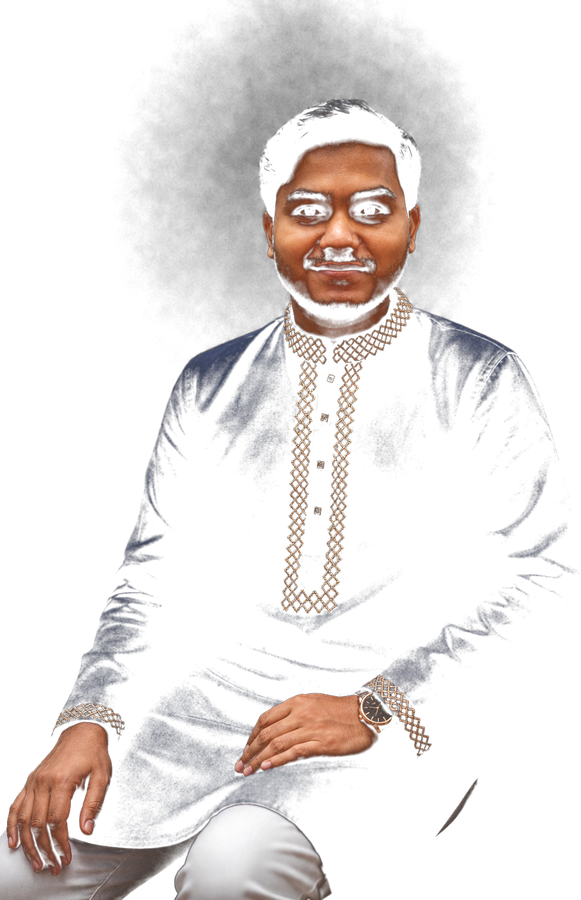
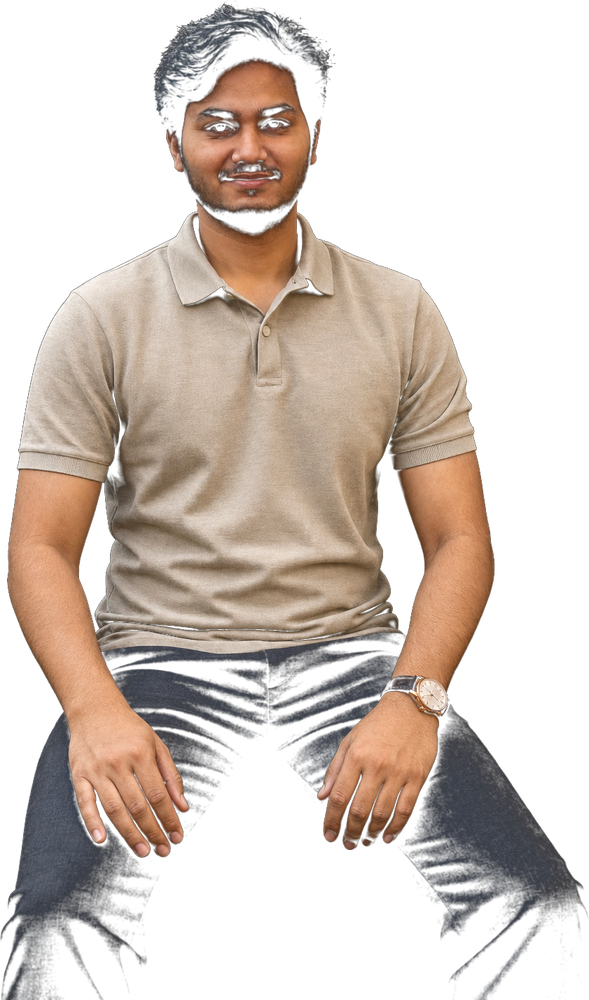
Expand AI portrait set and keep unused shots off GitHub.
Replace the weak about portrait with a seated polo regen from a non-panjabi reference, archive six alternate aspects under a gitignored private folder, and document structured multi-aspect prompts.

diff --git a/src/views/LifeView.vue b/src/views/LifeView.vue
@@ -18,7 +18,7 @@ const sorted = [...LIFE_MOMENTS].sort((a, b) => b.when.localeCompare(a.when))
     <div class="mb-10 flex flex-col items-start gap-6 rounded-2xl border border-steel/60 bg-ink-soft/50 p-5 sm:flex-row sm:items-center">
       <ProfilePortrait
         variant="about"
-        src="/images/profile/hero-ai-alt.png"
+        src="/images/profile/life-intro-ai.png"
         alt="Asif Hasan Tonmoy — life & travel intro"
       />
       <p class="max-w-2xl text-sm leading-relaxed text-mist sm:text-base">

diff --git a/docs/portrait-regen-prompt.md b/docs/portrait-regen-prompt.md
@@ -1,117 +1,87 @@
-# Master portrait regeneration prompt — Gemini / Nano Banana Pro
+# Multi-aspect portrait generation prompts
 
-**Recommended model (best quality first):**
-1. `gemini-3-pro-image` (Nano Banana Pro) — preferred for identity lock + wardrobe + grade
-2. Fallback: `gemini-3.1-flash-image` (Nano Banana 2)
-3. Speed only: `gemini-3.1-flash-lite-image`
+Recommended model: **`gemini-3-pro-image`** (Nano Banana Pro). Fallback: `gemini-3.1-flash-image`.
 
-**Tooling:** Google AI Studio → Image → upload 2–3 reference photos → paste prompt → aspect **3:4** → download PNG.
+Attach **one** primary face/body reference per run (smaller JPEG ≤1.2MB). Do **not** use the cafe panjabi photo for seated “about” shots if that look failed before — prefer mall / campus / roadside / beach close-up.
 
-**Reference pack (attach in this order):**
-1. Cafe panjabi close-up (face identity primary)
-2. Campus blue-shirt full body (body proportion / height)
-3. Mall crossed-arms (secondary face angle)
-
----
-
-## PROMPT A — Landing hero (right of name, dark site)
+Shared rules for every prompt below (paste under each aspect prompt):
 
 ```
-ROLE
-You are a world-class portrait photographer (Nick Knight × Peter Lindbergh editorial discipline) AND a senior retoucher (Capture One + frequency-separation grade). You are regenerating a portfolio hero cutout for a dark luxury tech website.
+IDENTITY LOCK: Same South Asian man as the attached reference. Preserve eye spacing, nose, lips, jaw, short groomed dark beard, hairline and side volume. No face morph, no beautify-into-stranger.
 
-TASK
-Regenerate ONE photoreal three-quarter standing portrait of the SAME man as the attached references. This is an identity-preserving edit, not a new person.
+SKIN (photometric, not “realistic” as a vague word):
+- Target: Fitzpatrick III–IV very light brown / light wheat.
+- Melanin: warmer on zygoma + nose tip + ear rims; cooler on mandibular plane + under-eye.
+- Texture: visible pores on cheek at 100% crop; fine peach-fuzz along beard edge; no plastic SSS melt.
+- Specular: small highlights only on forehead + nose bridge (≈2–4% of face area), not oily sheet.
+- White balance: neutral daylight; forbid orange cafe cast and grey corpse cast.
 
-IDENTITY LOCK (non-negotiable)
-- Preserve exact facial geometry from Reference 1: eye shape/spacing, brow ridge, nose bridge/tip, lip thickness, jaw, cheekbones, ear set.
-- Keep short neatly groomed dark beard + mustache as in Reference 1.
-- Keep hair: short, dark, side volume / slight lift on top, natural part.
-- Age: mid-20s. Same person across all references. Do NOT beautify into a different face. Do NOT mix faces. Do NOT Westernize features.
+ANTI-ARTIFACT: Five correct fingers; no melted ears; no double watch; no white halo on black; no jagged rembg edge; no warped collar.
 
-SKIN
-- Target tone: very light brown / light wheat South Asian (lighter than Reference 1 cafe warmth).
-- Keep real pore texture + micro-specular; no plastic, no airbrush melt, no orange cast.
-- Soft key from camera-left 35°, gentle fill, subtle cool rim so subject separates from black void.
+BACKGROUND: Pure #000000 void OR soft charcoal→black gradient. Soft optical hair edges. No environment props.
 
-HEIGHT / POSTURE (critical)
-- He must read as tall and long-limbed, never short, never hunched, never “compact seated”.
-- Standing three-quarter (mid-thigh to crown). Camera height slightly BELOW eye level (subtle low angle) to elongate torso/legs.
-- Shoulders open/back, chest lifted, neck long, chin level, weight soft on back leg.
-- Soft genuine smile (teeth optional, closed-mouth warm smile preferred), eyes to camera, confident-chill.
-
-WARDROBE — chill + rich + elegant (NOT suited-and-booted)
-- Ivory / soft cream linen-cotton button-down, top button open, sleeves rolled once to mid-forearm.
-- Dark charcoal tailored trousers with clean crease and natural break.
-- Slim rose-gold / copper watch with dark leather strap on LEFT wrist (match reference watch language).
-- No necktie, no suit jacket, no blazer armor, no sneakers, no sportswear logos, no traditional embroidered panjabi for THIS hero shot.
-- Fabric must show real weave (linen slub), not CG plastic cloth.
-
-BACKGROUND / CUTOUT
-- Solid pure black (#000000) studio void OR true transparent alpha with subject only.
-- NO cafe, NO wooden slats, NO table, NO menu, NO phone, NO floor plane, NO props.
-- Edges: optical hair flyaways preserved; soft natural matte. ZERO white halo, ZERO green/black fringing, ZERO jagged rembg edges, ZERO cardboard cutout look.
-
-COLOR GRADE
-- Editorial cool-neutral portfolio grade: controlled highlights, open midtones on skin, deep but not crushed blacks.
-- Subtle teal-in-shadow / warm-in-skin separation (restrained).
-- Soft contrast curve. No HDR crunch, no Clarity slider abuse, no oversharpened eyelid edges.
-
-ANTI-ARTIFACT
-- Hands: anatomically correct, five fingers, natural pocket tuck on one hand only.
-- No melted ears, no duplicate watch, no warped collar, no asymmetric pupils.
-- Must not look “AI generated”. Must look like a $5k studio day.
-
-COMPOSITION FOR WEB
-- Vertical 3:4. Subject weighted slightly right of center with breathing room on left so he can sit to the RIGHT of a large name headline on a dark site (#100c0a ink).
-- Soft contact shadow under feet ONLY if feet visible; otherwise floating cutout with soft drop-friendly silhouette.
-
-OUTPUT
-- Single PNG, high resolution, print-sharp face, web-ready after resize.
+GRADE: Soft S-curve; open skin midtones; controlled blacks; restrained teal-shadow / warm-skin separation. Magazine still, not HDR crunch.
 ```
 
 ---
 
-## PROMPT B — About section (cultural-modern elegance)
+## 01 — Standing hero (3:4) — site primary style
+Reference: campus full-body (preferred) or first good linen hero.
 
 ```
-Same IDENTITY LOCK + SKIN + ANTI-ARTIFACT rules as Prompt A.
+POSE: Mid-thigh→crown. Camera 8–12cm below eye height. Weight on back leg; front knee soft. Pelvis neutral, lumbar slight lordosis, scapulae down-back. Left hand loosely in pocket (thumb out). Soft closed-mouth smile, eyes to camera.
+WARDROBE: Ivory linen shirt, top button open, sleeves rolled once; charcoal trousers; rose-gold watch dark strap. No suit/tie/sneakers.
+OUTPUT: 3:4 PNG cutout for dark website hero right of name.
+```
 
-POSE
-- Seated upright on invisible stool, torso elongated, NEVER hunched over a table.
-- Hands relaxed on thigh (not clasped on cafe table). Soft smile.
-- Camera slightly low for height.
+## 02 — Seated about (3:4) — biomechanics
+Reference: mall crossed-arms OR beach close-up. **Never** cafe panjabi for this slot if regenerating.
 
-WARDROBE
-- Deep navy panjabi with restrained cream geometric embroidery on collar/placket/cuffs (refined from Reference 1), white/ivory trousers, rose-gold watch.
-- OR charcoal cashmere crewneck with crisp white shirt collar peek — either must feel rich + chill, not costume.
+```
+POSE (sitting physics): Sit-bones bearing weight on invisible stool. Pelvis posterior tilt 5–8° (not perched on thighs). Femurs angle down ~15°; knees ≈ hip height or slightly below. Torso stacked over pelvis — thoracic NOT collapsed. Forearms on thighs, elbows ~100–110°. Head over spine, chin level. Camera slightly below eyes so torso reads long.
+WARDROBE: Stone-beige cotton pique polo (no logo) OR soft sage polo; charcoal trousers; rose-gold watch.
+```
 
-BACKGROUND
-- Soft charcoal-to-black gradient studio, no cafe clutter.
+## 03 — Crossed arms (3:4)
+```
+POSE: Standing mid-thigh crop. Arms crossed loosely (not defensive clamp). Watch visible on left wrist. Tall posture, low camera.
+WARDROBE: Pale sage / mint pique polo; charcoal trousers.
+```
 
-GRADE
-- Warm key on face, cool falloff into black. Magazine about-page quality.
-Aspect 3:4.
+## 04 — Oxford standing (3:4)
+```
+POSE: 3/4 body angle, left hand pocket, tall open chest.
+WARDROBE: Light-blue micro-check oxford, sleeves rolled; charcoal trousers; rose-gold watch.
+```
+
+## 05 — Headshot square (1:1)
+```
+POSE: Head-and-shoulders; neck long; shoulders down; soft smile.
+WARDROBE: Ivory linen collar only.
+BG: Soft charcoal→black gradient.
+```
+
+## 06 — Tall vertical (9:16)
+```
+POSE: Knees→crown vertical. Low camera. One hand pocket; loafers tip may show.
+WARDROBE: Ivory linen untucked or lightly tucked; charcoal trousers; dark loafers; rose-gold watch.
+```
+
+## 07 — Lean landscape (4:3)
+```
+POSE: Light hip lean on invisible ledge; elbows soft; torso still upright.
+WARDROBE: Cream knit crewneck + white shirt collar peek; charcoal trousers.
 ```
 
 ---
 
-## PROMPT C — Optional alternate hero (polo, more chill)
+## QA before accepting
+- [ ] Face matches reference at 100% zoom  
+- [ ] Skin is light wheat, not dark orange  
+- [ ] Tall read (low angle + open posture)  
+- [ ] Seated shots pass sit-bone / femur check  
+- [ ] No white edge halo  
+- [ ] Hands correct  
+- [ ] Looks photographic, not AI plastic  
 
-```
-Same identity lock. Standing tall mid-calf crop, slight low angle.
-Stone-beige fine knit polo (no logos), charcoal trousers, rose-gold watch, soft smile.
-Pure black void, no halo, light-wheat skin, editorial grade.
-```
-
----
-
-## QA checklist before accepting a frame
-- [ ] Face matches Reference 1 at 100% zoom (eyes/nose/mouth)
-- [ ] Skin is light brown, not dark orange / not pale grey
-- [ ] Reads tall (low angle + open posture)
-- [ ] Smile present, elegant, not grimace
-- [ ] No suit/tie; chill-rich wardrobe
-- [ ] No white edge halo on black
-- [ ] Hands correct
-- [ ] Looks photographic, not AI-plastic
+Unused keepers → `private/generated-portraits/` (gitignored). Only `public/images/profile/*` ships to GitHub.
